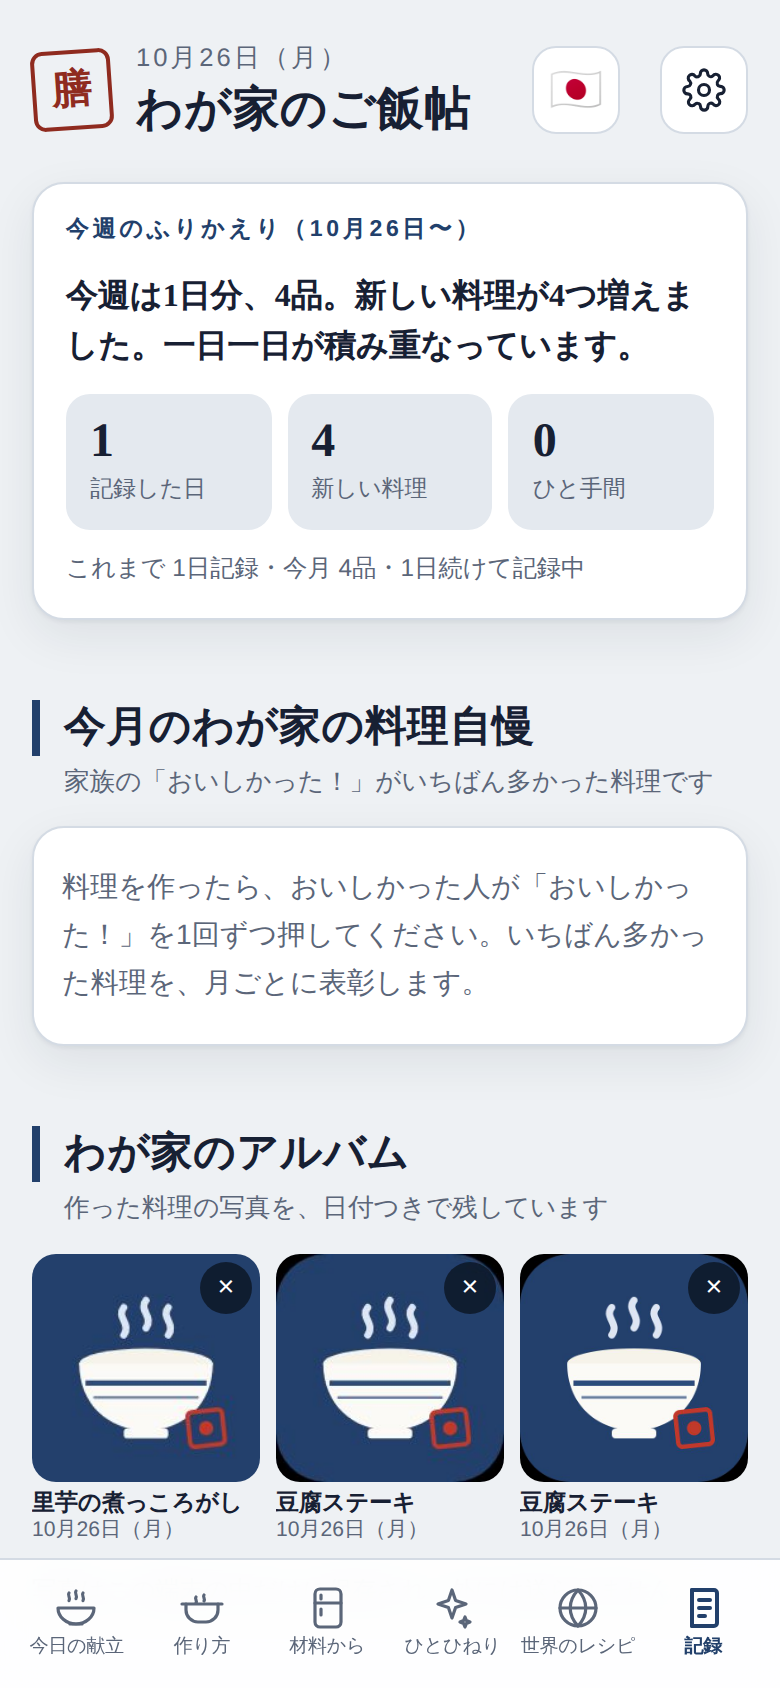
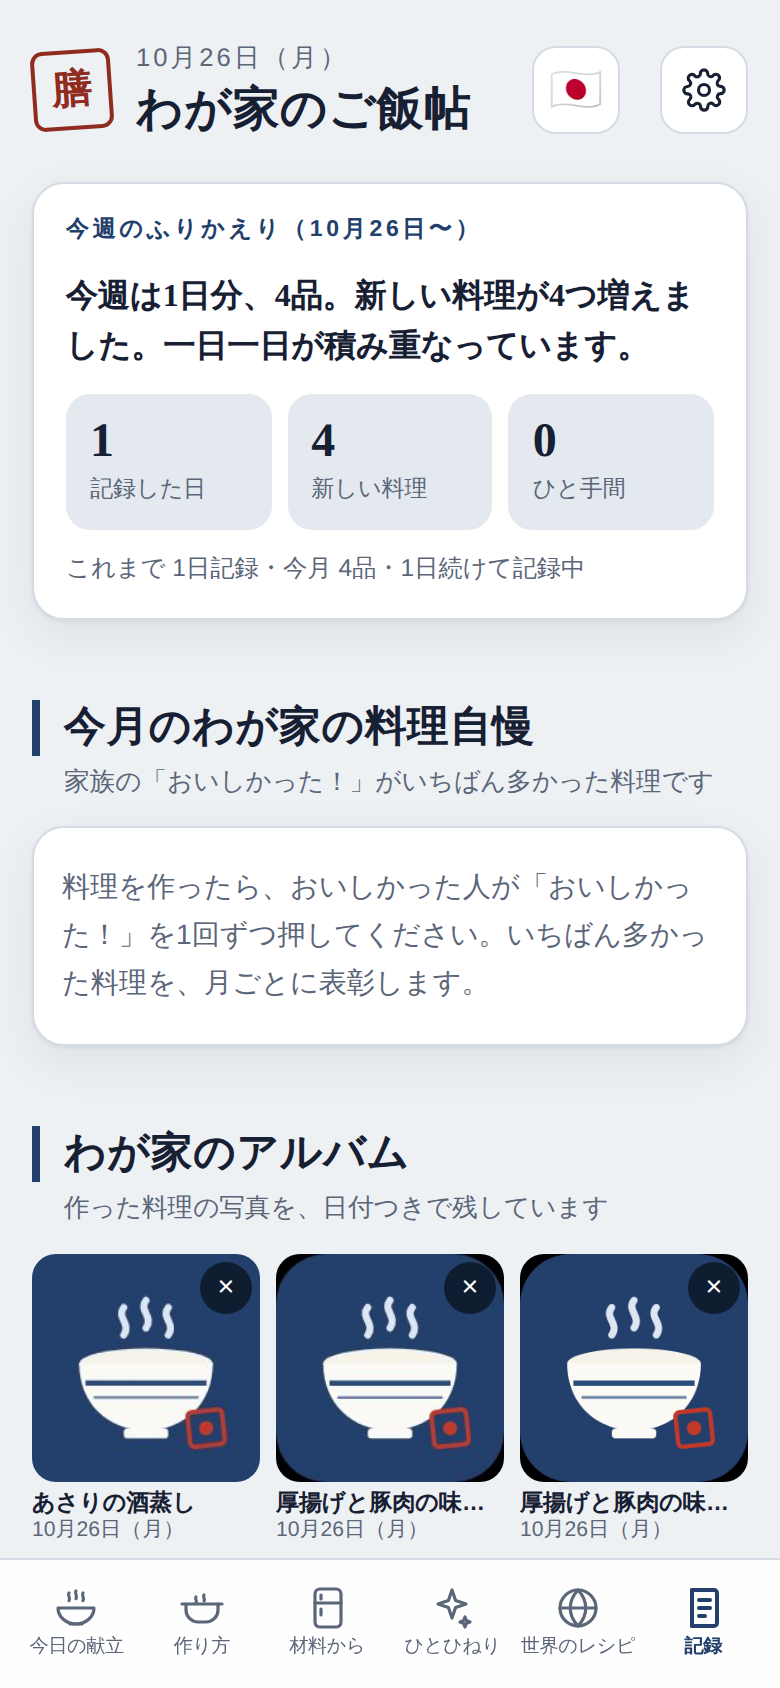
壊れにくくした
- 保存データ・読み込んだデータの形を直してから使う（日付のない記録・壊れた自作レシピ・null の項目などで起動しなくなっていた）
- 読み込みでは、購入の状態と無料期間の始まりはこの端末のものを残す
- 記録を消したら「元に戻す」を出す。決定・消すのすばやい2回押しを、次の画面のボタンに当てない
- 消した自作レシピが、言語や国を変えると戻ってきていた。日本以外では使わないジャンル欄を出さない
- 端末の空きが足りず保存できないときは知らせる。長い英数字の名前で横にはみ出さない
- 新しい文を17言語に訳した

Claude-Session: https://claude.ai/code/session_019mhum2xsvshQ35w91Npja8

Changed region(s): [[0.6769, 0.8626, 0.9231, 0.8934], [0.3385, 0.8626, 0.5846, 0.8934], [0.0308, 0.8626, 0.2769, 0.8934]]

diff --git a/gohancho/index.html b/gohancho/index.html
@@ -178,7 +178,8 @@ a{color:var(--accent)}
 .list{display:flex;flex-direction:column;background:var(--surface);border:1px solid var(--line);border-radius:var(--r);box-shadow:var(--shadow);overflow:hidden}
 .item{display:grid;grid-template-columns:1fr auto;gap:10px;align-items:center;padding:12px 14px;border-top:1px solid var(--line)}
 .item:first-child{border-top:0}
-.item .t{font-weight:500;cursor:pointer;min-width:0}
+.item .t{font-weight:500;cursor:pointer;min-width:0;overflow-wrap:anywhere}
+.spot-label .nm,.tw-name,.match .name,.cook-head h3,.modal h2{overflow-wrap:anywhere}
 .item .t:hover{color:var(--accent)}
 .item .s{font-size:.76rem;color:var(--muted);font-weight:400}
 .empty{padding:18px 14px;color:var(--muted);font-size:.88rem}
@@ -1057,10 +1058,32 @@ const FAMILY_RE = {
 const STORE_KEY = 'gohancho.v1';
 const DEFAULT_STATE = {history:[], favs:[], hidden:[], fridge:[], staples:[], skills:[], custom:[], seenTwists:[], awards:{}, week:null, onboarded:false, firstUse:'', pro:null, usage:{}, usedDays:[], trialNoticeShown:false, settings:{avoidDays:10, dishCount:'auto', servings:2, avoid:[], uiLang:'auto'}};
 let S = load();
+// 保存データ・読み込んだデータの形を直す（足りない項目・型の違い・日付のない記録などで、アプリが起動しなくならないように）
+function normalizeState(d){
+    d = d && typeof d === 'object' && !Array.isArray(d) ? d : {};
+    const st = Object.assign(structuredClone(DEFAULT_STATE), d, {settings: Object.assign(structuredClone(DEFAULT_STATE.settings), d.settings && typeof d.settings === 'object' ? d.settings : {})});
+    const arr = x => Array.isArray(x) ? x : [], obj = x => x && typeof x === 'object' && !Array.isArray(x) ? x : {};
+    const isYmd = x => typeof x === 'string' && /^\d{4}-\d{2}-\d{2}$/.test(x);
+    ['favs','hidden','fridge','staples','skills','seenTwists','usedDays'].forEach(k => { st[k] = arr(st[k]).filter(x => typeof x === 'string' || typeof x === 'number'); });
+    st.history = arr(st.history).filter(h => h && (typeof h.id === 'string' || typeof h.id === 'number') && isYmd(h.d)).sort((a, b) => a.d < b.d ? 1 : a.d > b.d ? -1 : 0);
+    st.custom = arr(st.custom).filter(r => r && r.id && typeof r.name === 'string' && r.name.trim()).map(r => Object.assign({}, r, {
+        ings: arr(r.ings).filter(x => typeof x === 'string' && x.trim()), steps: arr(r.steps).filter(x => typeof x === 'string'), seas: typeof r.seas === 'string' ? r.seas : '',
+        type: ['主菜','副菜','汁物','ごはん','麺'].includes(r.type) ? r.type : '主菜', min: Number(r.min) || 20, genre: r.genre || '和', method: r.method || '炒'}))
+        .filter(r => r.ings.length);
+    ['awards','usage','countryData','stapleBy'].forEach(k => { if (k in st) st[k] = obj(st[k]); });
+    if (!(st.week && isYmd(st.week.start) && Array.isArray(st.week.days))) st.week = null;
+    else st.week.days = st.week.days.filter(x => x && isYmd(x.d) && x.id);
+    if (st.cook && !(isYmd(st.cook.d) && Array.isArray(st.cook.ids))) st.cook = null;
+    if (st.draft && !(isYmd(st.draft.d) && Array.isArray(st.draft.ids) && Array.isArray(st.draft.slots))) st.draft = null;
+    st.settings.avoid = arr(st.settings.avoid).filter(x => typeof x === 'string');
+    st.settings.mix = obj(st.settings.mix);
+    if (!isYmd(st.firstUse)) st.firstUse = '';
+    return st;
+}
 function load(){
     try{
         const raw = localStorage.getItem(STORE_KEY);
-        if (raw){ const d = JSON.parse(raw); return Object.assign(structuredClone(DEFAULT_STATE), d, {settings:Object.assign(structuredClone(DEFAULT_STATE.settings), d.settings||{})}); }
+        if (raw) return normalizeState(JSON.parse(raw));
     }catch(e){}
     return structuredClone(DEFAULT_STATE);
 }
@@ -1068,9 +1091,11 @@ function load(){
 let packFail = null;
 function save(){ try{
     const out = packFail && S.settings.country === 'JP' ? Object.assign({}, S, {settings: Object.assign({}, S.settings, {country: packFail})}) : S;
-    localStorage.setItem(STORE_KEY, JSON.stringify(out)); }catch(e){} }
+    localStorage.setItem(STORE_KEY, JSON.stringify(out)); }catch(e){
+    // 端末の空きが足りず保存できないとき（黙って消えないよう、開いているあいだに1回だけ知らせる）
+    if (!save.warned && typeof toast === 'function'){ save.warned = true; setTimeout(() => toast(t('端末の空きが足りず、保存できませんでした。写真などを減らしてください')), 0); } } }
 function isCustomId(id){ return /^u\d+$/.test(String(id)); }   // 自作レシピの id（u＋数字）。国のレシピ（us_…）と区別する
-function addCustomRecipes(){ S.custom.forEach(r => { if (!RECIPES.find(x => x.id === r.id)) RECIPES.push(prepRecipe(Object.assign({}, r))); }); }
+function addCustomRecipes(){ S.custom.forEach(r => { try{ if (!RECIPES.find(x => x.id === r.id)) RECIPES.push(prepRecipe(Object.assign({}, r))); }catch(e){} }); }
 addCustomRecipes();
 if (!S.onboarded && (S.history.length || S.favs.length || S.fridge.length)) S.onboarded = true;   // 以前から使っている人には出さない
 if (!S.firstUse) S.firstUse = S.history.length ? S.history[S.history.length-1].d : ymd();
@@ -1230,9 +1255,11 @@ function byId(id){
 }
 function rand(arr){ return arr[Math.floor(Math.random()*arr.length)]; }
 function shuffle(a){ a = a.slice(); for (let i=a.length-1;i>0;i--){ const j=Math.floor(Math.random()*(i+1)); [a[i],a[j]]=[a[j],a[i]]; } return a; }
-function toast(msg, praise=false){
-    const root = $('#toast-root'); root.innerHTML = `<div class="toast pop${praise?' praise':''}" role="status">${esc(msg)}</div>`;
-    clearTimeout(toast.t); toast.t = setTimeout(() => root.innerHTML = '', praise ? 4200 : 2400);
+// undo を渡すと「元に戻す」ボタンを付けて少し長めに出す
+function toast(msg, praise=false, undo=null){
+    const root = $('#toast-root'); toast.undo = undo;
+    root.innerHTML = `<div class="toast pop${praise?' praise':''}" role="status">${esc(msg)}${undo ? ` <button class="btn sm" data-act="toast-undo">${esc(t('元に戻す'))}</button>` : ''}</div>`;
+    clearTimeout(toast.t); toast.t = setTimeout(() => { root.innerHTML = ''; toast.undo = null; }, undo ? 5000 : praise ? 4200 : 2400);
 }
 // 最後に食べた日からの日数（食べていなければ Infinity）
 function daysSince(id){
@@ -3954,7 +3981,7 @@ function viewLog(){
                 <div class="field"><label for="c-name">${esc(t('料理名'))}</label><input type="text" id="c-name" required placeholder="${esc(t('例: 実家の豚バラ大根'))}"></div>
                 <div class="grid2">
                     <div class="field"><label for="c-type">${esc(t('種類'))}</label><select id="c-type">${['主菜','副菜','汁物','ごはん','麺'].map(c => `<option value="${c}">${esc(typeLabel(c))}</option>`).join('')}</select></div>
-                    <div class="field"><label for="c-genre">${esc(t('ジャンル'))}</label><select id="c-genre">${['和','洋','中','韓','エスニック'].map(g => `<option value="${g}">${esc(genreLabel({genre:g}))}</option>`).join('')}</select></div>
+                    ${PACK ? '' : `<div class="field"><label for="c-genre">${esc(t('ジャンル'))}</label><select id="c-genre">${['和','洋','中','韓','エスニック'].map(g => `<option value="${g}">${esc(genreLabel({genre:g}))}</option>`).join('')}</select></div>`}
                     <div class="field"><label for="c-method">${esc(t('主な調理'))}</label><select id="c-method">${[['煮',t('煮る')],['炒',t('炒める')],['焼',t('焼く')],['揚',t('揚げる')],['和え',t('和える')],['汁',t('汁もの')],['炊',t('炊く')]].map(([v,l]) => `<option value="${v}">${esc(l)}</option>`).join('')}</select></div>
                     <div class="field"><label for="c-min">${esc(t('調理時間（分）'))}</label><input type="number" id="c-min" value="20" min="1" max="240"></div>
                 </div>
@@ -4187,9 +4214,12 @@ function commitSpeech(text){
     const si = $('#search-input'); if (si && keep){ si.value = keep; runSearch(keep); }
 }
 
+let tapGuard = 0;   // 画面が切りかわった直後のすばやい2回目のタップを、次の画面のボタンに当てない
 document.addEventListener('click', e => {
     const el = e.target.closest('[data-act]'); if (!el) return;
+    if (Date.now() < tapGuard && el.dataset.act !== 'toast-undo') return;
     const act = el.dataset.act, id = el.dataset.id;
+    if (act === 'decide' || act === 'ob-done' || act === 'rm-hist' || act === 'rm-custom') tapGuard = Date.now() + 350;
     if (act === 'modal-bg' && e.target !== el) return;
     switch(act){
         case 'open': openModal(id); break;
@@ -4418,10 +4448,18 @@ document.addEventListener('click', e => {
             if (modalId) renderModal(); render(); break;
         }
         case 'react-open': { const k = el.dataset.d + '|' + id; session.reactOpen = session.reactOpen === k ? null : k; render(); break; }
-        case 'rm-hist': S.history = S.history.filter(h => !(h.d === el.dataset.d && h.id === id)); reactVer++; settleAwards(); save(); render(); break;
+        case 'rm-hist': {
+            // 消したあとに「元に戻す」を出す（押しまちがい・すばやい2回押しで消えたときに戻せるように）
+            const before = S.history.slice();
+            S.history = S.history.filter(h => !(h.d === el.dataset.d && h.id === id)); reactVer++; settleAwards(); save(); render();
+            toast(t('記録を消しました'), false, () => { S.history = before; reactVer++; settleAwards(); save(); render(); });
+            break;
+        }
+        case 'toast-undo': { const f = toast.undo; $('#toast-root').innerHTML = ''; toast.undo = null; if (f) f(); break; }
         case 'rm-custom': {
             S.custom = S.custom.filter(r => r.id !== id);
             const i = RECIPES.findIndex(r => r.id === id); if (i >= 0) RECIPES.splice(i,1);
+            if (JP_DATA){ const j = JP_DATA.recipes.findIndex(r => r.id === id); if (j >= 0) JP_DATA.recipes.splice(j, 1); }   // 言語を変えても戻ってこないように
             save(); render(); break;
         }
         case 'toggle-staple': {
@@ -4474,7 +4512,9 @@ document.addEventListener('click', e => {
         case 'import-yes': {
             try{
                 const d = JSON.parse(importBuffer);
-                S = Object.assign(structuredClone(DEFAULT_STATE), d, {settings:Object.assign({}, DEFAULT_STATE.settings, d.settings||{})});
+                // 購入の状態・無料期間の始まりは、この端末のものを残す（古いバックアップで購入が消えたり、貼った文字で開いたりしないように）
+                const keep = {pro: S.pro, firstUse: S.firstUse, monitor: S.monitor, trialKept: S.trialKept};
+                S = Object.assign(normalizeState(d), keep);
                 if (!S.settings.country && S.onboarded) S.settings.country = 'JP';   // 国を選ぶ前の版のデータは日本
                 for (let i = RECIPES.length-1; i >= 0; i--) if (isCustomId(RECIPES[i].id)) RECIPES.splice(i,1);
                 addCustomRecipes();

diff --git a/gohancho/i18n/hi.js b/gohancho/i18n/hi.js
@@ -664,4 +664,7 @@ GOHAN_I18N('hi', {
     "プランの残りが少なくなりました": "आपकी योजना खत्म होने वाली है",
     "今日から7日分を考える": "आज से 7 दिन की योजना बनाएँ",
     "選んだ食材は、あるものとして数え、買い物メモに出しません。": "इन्हें घर में मौजूद मानेंगे और खरीदारी सूची में नहीं डालेंगे।",
+    "元に戻す": "वापस लाएँ",
+    "端末の空きが足りず、保存できませんでした。写真などを減らしてください": "डिवाइस में जगह कम है, इसलिए सहेजा नहीं जा सका। कुछ फ़ोटो हटाएँ।",
+    "記録を消しました": "रिकॉर्ड हटाया गया",
 });

diff --git a/gohancho/i18n/th.js b/gohancho/i18n/th.js
@@ -664,4 +664,7 @@ GOHAN_I18N('th', {
     "プランの残りが少なくなりました": "แผนใกล้หมดแล้ว",
     "今日から7日分を考える": "วางแผน 7 วันตั้งแต่วันนี้",
     "選んだ食材は、あるものとして数え、買い物メモに出しません。": "นับว่ามีอยู่แล้วที่บ้าน และไม่ใส่ในรายการซื้อของ",
+    "元に戻す": "เลิกทำ",
+    "端末の空きが足りず、保存できませんでした。写真などを減らしてください": "พื้นที่ในเครื่องไม่พอ บันทึกไม่ได้ ลองลบรูปบางส่วน",
+    "記録を消しました": "ลบบันทึกแล้ว",
 });

diff --git a/gohancho/i18n/ar.js b/gohancho/i18n/ar.js
@@ -664,4 +664,7 @@ GOHAN_I18N('ar', {
     "プランの残りが少なくなりました": "خطتك على وشك الانتهاء",
     "今日から7日分を考える": "خطة 7 أيام من اليوم",
     "選んだ食材は、あるものとして数え、買い物メモに出しません。": "سنعتبرها موجودة في البيت ولن نضيفها إلى قائمة التسوق.",
+    "元に戻す": "تراجع",
+    "端末の空きが足りず、保存できませんでした。写真などを減らしてください": "لا توجد مساحة كافية على الجهاز، تعذّر الحفظ. احذفي بعض الصور.",
+    "記録を消しました": "تم حذف السجل",
 });

diff --git a/gohancho/i18n/ko.js b/gohancho/i18n/ko.js
@@ -664,4 +664,7 @@ GOHAN_I18N('ko', {
     "プランの残りが少なくなりました": "식단 계획이 거의 끝났어요",
     "今日から7日分を考える": "오늘부터 7일 계획하기",
     "選んだ食材は、あるものとして数え、買い物メモに出しません。": "집에 있는 것으로 치고 장보기 목록에 넣지 않아요.",
+    "元に戻す": "되돌리기",
+    "端末の空きが足りず、保存できませんでした。写真などを減らしてください": "기기 저장 공간이 부족해서 저장하지 못했어요. 사진을 조금 지워 주세요.",
+    "記録を消しました": "기록을 지웠어요",
 });

diff --git a/gohancho/i18n/fr.js b/gohancho/i18n/fr.js
@@ -664,4 +664,7 @@ GOHAN_I18N('fr', {
     "プランの残りが少なくなりました": "Votre plan se termine bientôt",
     "今日から7日分を考える": "Planifier 7 jours à partir d'aujourd'hui",
     "選んだ食材は、あるものとして数え、買い物メモに出しません。": "Ils seront comptés comme déjà à la maison et absents de la liste de courses.",
+    "元に戻す": "Annuler",
+    "端末の空きが足りず、保存できませんでした。写真などを減らしてください": "Espace insuffisant sur l'appareil, enregistrement impossible. Supprimez quelques photos.",
+    "記録を消しました": "Entrée supprimée",
 });

diff --git a/gohancho/i18n/vi.js b/gohancho/i18n/vi.js
@@ -664,4 +664,7 @@ GOHAN_I18N('vi', {
     "プランの残りが少なくなりました": "Kế hoạch sắp hết",
     "今日から7日分を考える": "Lên kế hoạch 7 ngày từ hôm nay",
     "選んだ食材は、あるものとして数え、買い物メモに出しません。": "Coi như đã có sẵn ở nhà và không đưa vào danh sách mua.",
+    "元に戻す": "Hoàn tác",
+    "端末の空きが足りず、保存できませんでした。写真などを減らしてください": "Thiết bị hết dung lượng nên không lưu được. Hãy xóa bớt ảnh.",
+    "記録を消しました": "Đã xóa bản ghi",
 });

diff --git a/gohancho/i18n/de.js b/gohancho/i18n/de.js
@@ -664,4 +664,7 @@ GOHAN_I18N('de', {
     "プランの残りが少なくなりました": "Dein Plan ist fast vorbei",
     "今日から7日分を考える": "7 Tage ab heute planen",
     "選んだ食材は、あるものとして数え、買い物メモに出しません。": "Diese zählen als vorhanden und kommen nicht auf die Einkaufsliste.",
+    "元に戻す": "Rückgängig",
+    "端末の空きが足りず、保存できませんでした。写真などを減らしてください": "Nicht genug Speicher auf dem Gerät, Speichern fehlgeschlagen. Entferne z. B. einige Fotos.",
+    "記録を消しました": "Eintrag gelöscht",
 });

diff --git a/gohancho/i18n/fil.js b/gohancho/i18n/fil.js
@@ -664,4 +664,7 @@ GOHAN_I18N('fil', {
     "プランの残りが少なくなりました": "Malapit nang matapos ang plan mo",
     "今日から7日分を考える": "Magplano ng 7 araw mula ngayon",
     "選んだ食材は、あるものとして数え、買い物メモに出しません。": "Ituturing na mayroon na sa bahay at hindi isasama sa listahan ng bibilhin.",
+    "元に戻す": "I-undo",
+    "端末の空きが足りず、保存できませんでした。写真などを減らしてください": "Kulang ang storage ng device kaya hindi na-save. Magbura ng ilang larawan.",
+    "記録を消しました": "Nabura ang record",
 });

diff --git a/gohancho/i18n/es.js b/gohancho/i18n/es.js
@@ -664,4 +664,7 @@ GOHAN_I18N('es', {
     "プランの残りが少なくなりました": "Tu plan está por terminar",
     "今日から7日分を考える": "Planear 7 días desde hoy",
     "選んだ食材は、あるものとして数え、買い物メモに出しません。": "Se cuentan como que ya los tienes y no salen en la lista de compras.",
+    "元に戻す": "Deshacer",
+    "端末の空きが足りず、保存できませんでした。写真などを減らしてください": "No hay espacio suficiente en el dispositivo y no se pudo guardar. Borra algunas fotos.",
+    "記録を消しました": "Registro eliminado",
 });

diff --git a/gohancho/i18n/it.js b/gohancho/i18n/it.js
@@ -664,4 +664,7 @@ GOHAN_I18N('it', {
     "プランの残りが少なくなりました": "Il piano sta per finire",
     "今日から7日分を考える": "Pianifica 7 giorni da oggi",
     "選んだ食材は、あるものとして数え、買い物メモに出しません。": "Li consideriamo già in casa e non li mettiamo nella lista della spesa.",
+    "元に戻す": "Annulla",
+    "端末の空きが足りず、保存できませんでした。写真などを減らしてください": "Spazio insufficiente sul dispositivo, impossibile salvare. Elimina qualche foto.",
+    "記録を消しました": "Voce eliminata",
 });

diff --git a/gohancho/i18n/en.js b/gohancho/i18n/en.js
@@ -665,4 +665,7 @@ GOHAN_I18N('en', {
     "プランの残りが少なくなりました": "Your plan is almost over",
     "今日から7日分を考える": "Plan 7 days from today",
     "選んだ食材は、あるものとして数え、買い物メモに出しません。": "We'll count these as already at home and leave them off the shopping list.",
+    "元に戻す": "Undo",
+    "端末の空きが足りず、保存できませんでした。写真などを減らしてください": "Not enough storage on this device, so we couldn't save. Try removing some photos.",
+    "記録を消しました": "Record deleted",
 });
